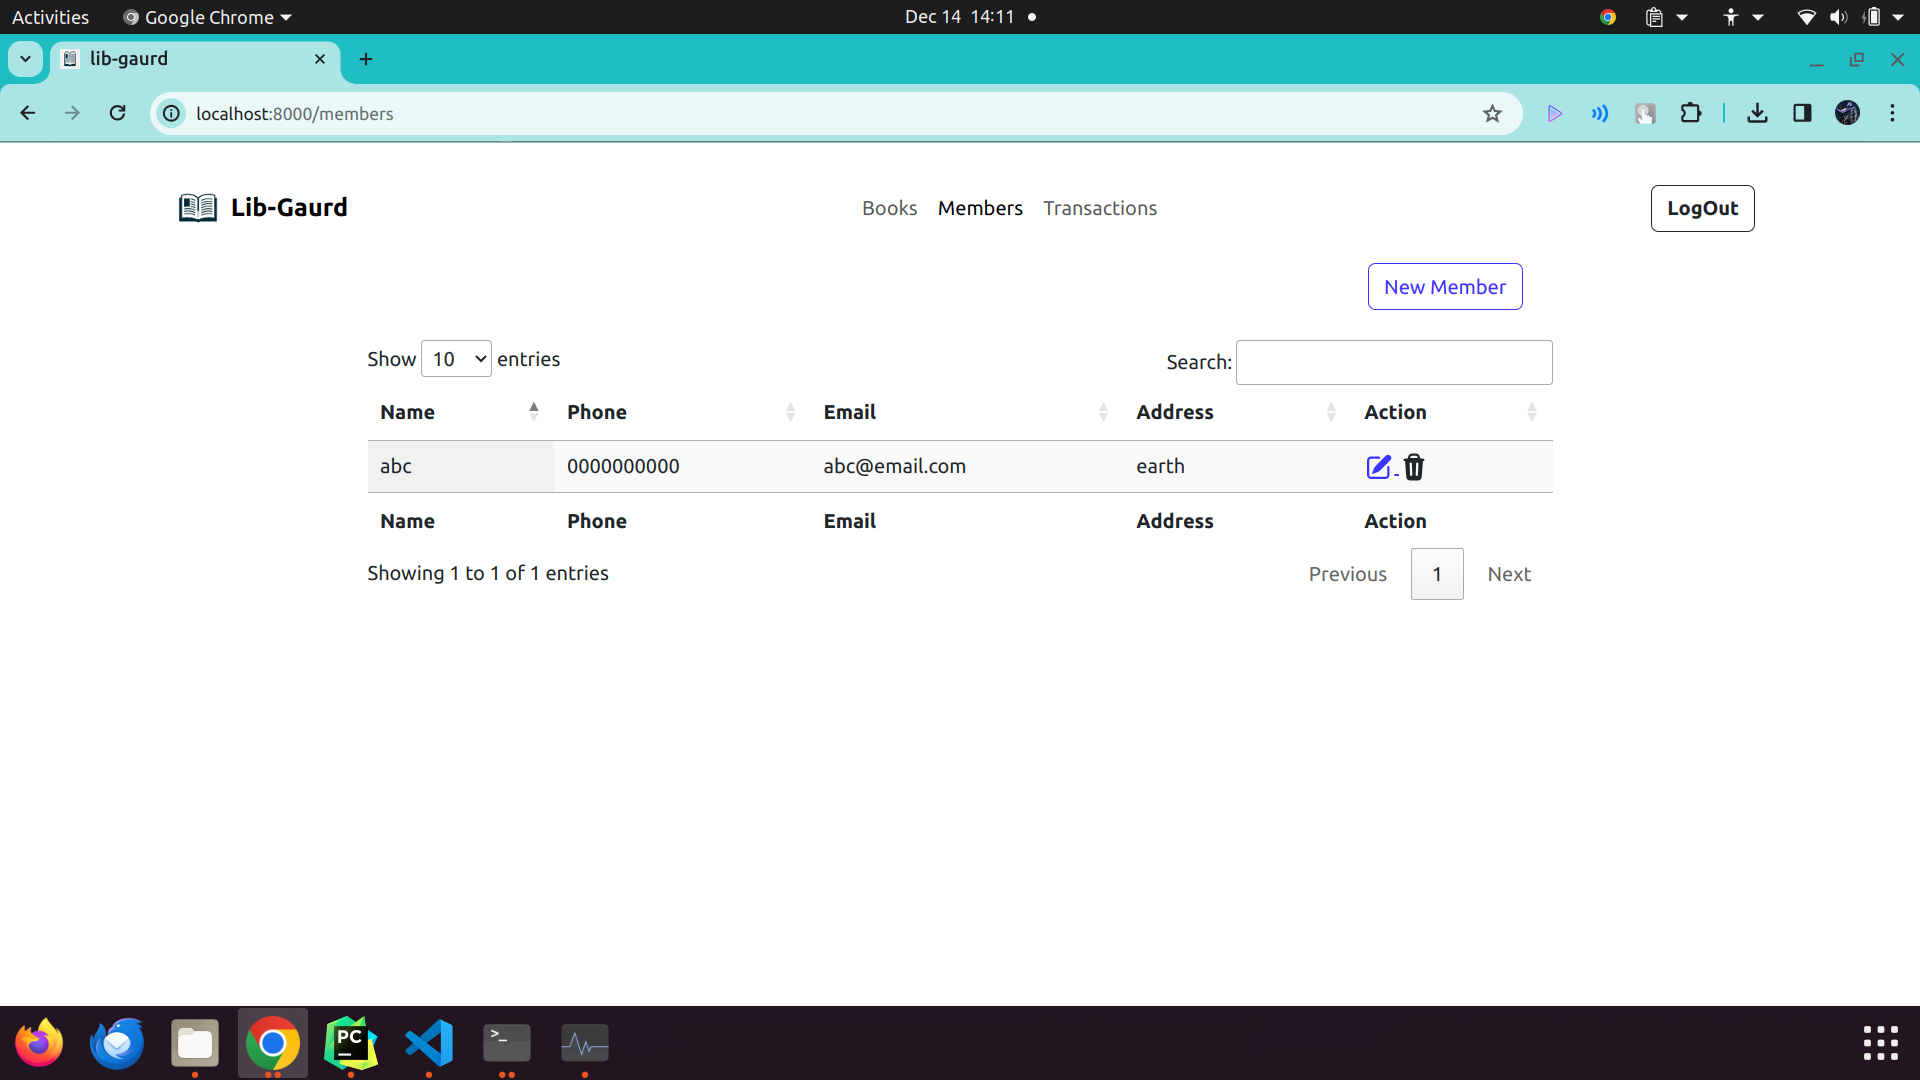
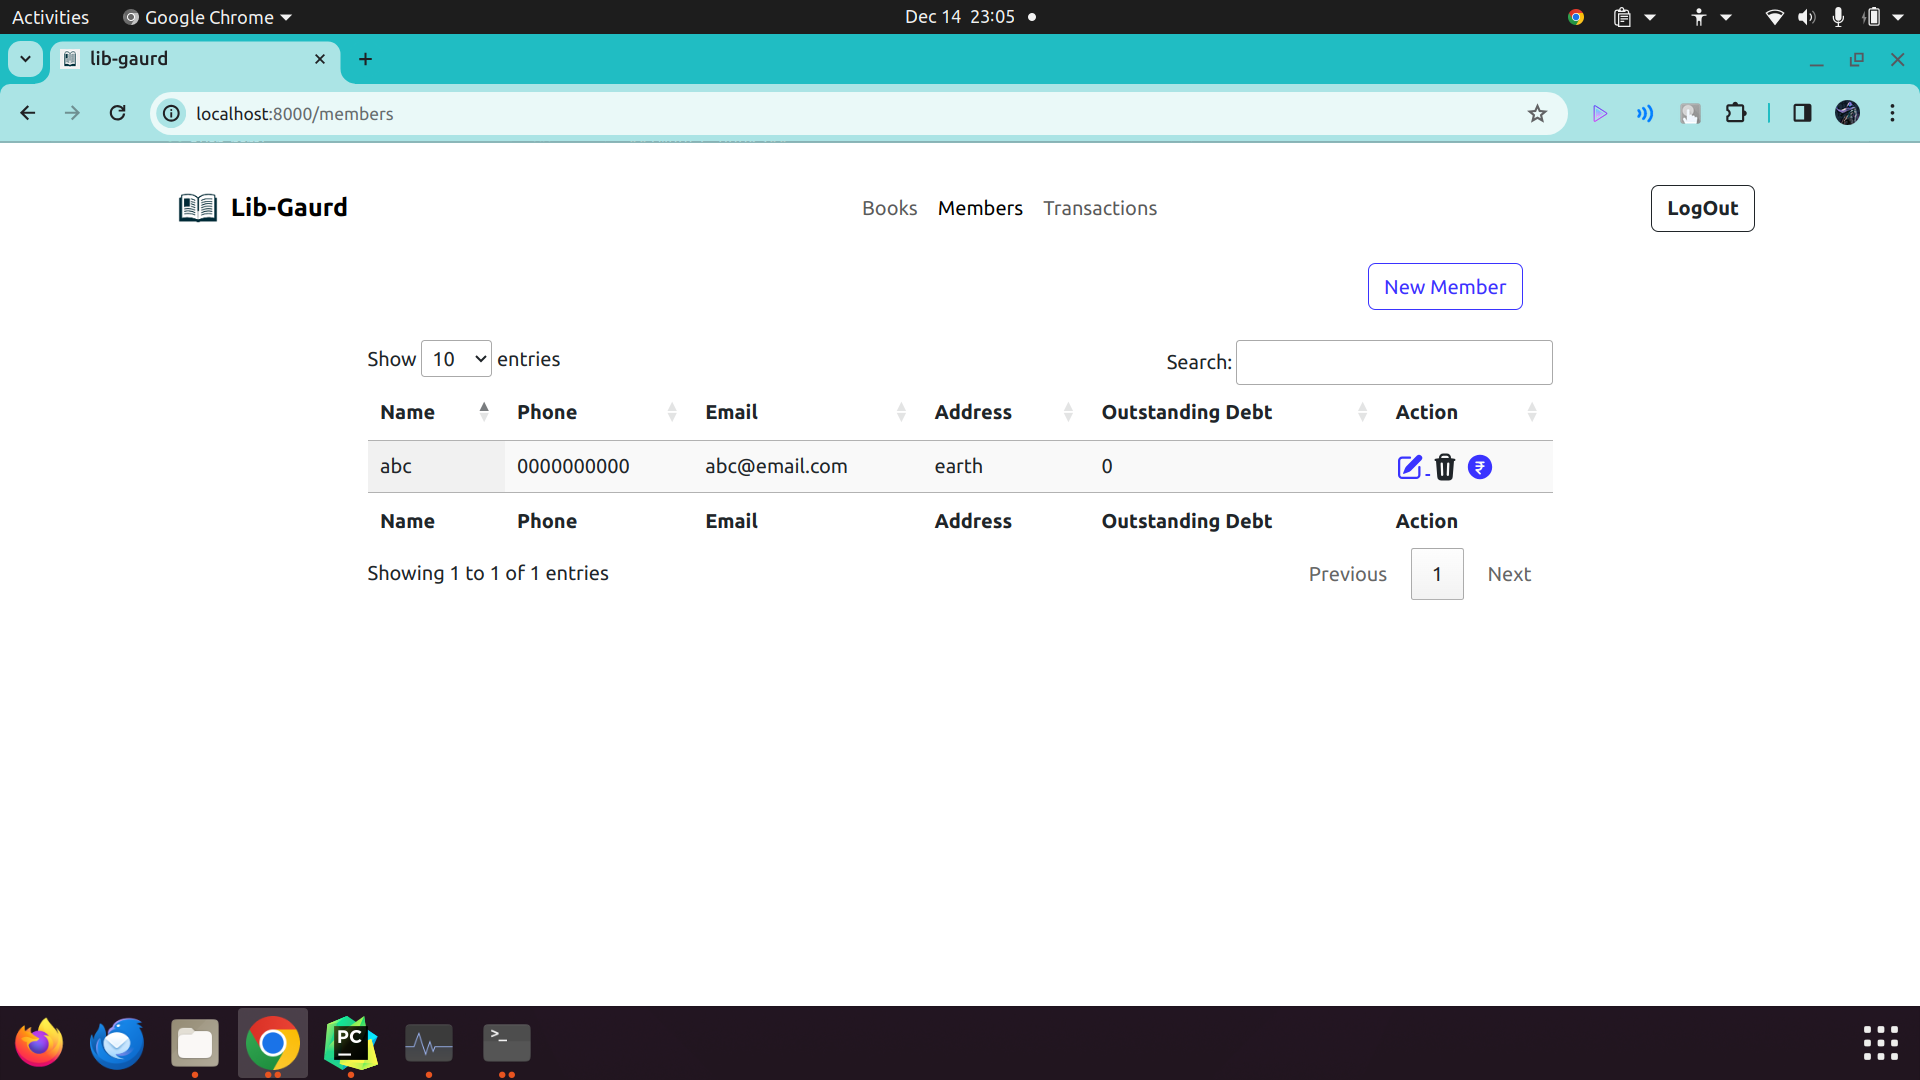
added member debt limit

diff --git a/src/templates/members/show.html b/src/templates/members/show.html
@@ -13,6 +13,7 @@
             <th>Phone</th>
             <th>Email</th>
             <th>Address</th>
+            <th>Outstanding Debt</th>
             <th>Action</th>
         </tr>
     </thead>
@@ -22,6 +23,7 @@
           <th>Phone</th>
           <th>Email</th>
           <th>Address</th>
+          <th>Outstanding Debt</th>
           <th>Action</th>
       </tr>
     </tfoot>
@@ -41,6 +43,13 @@
       <path fill-rule="evenodd" d="M8.75 1A2.75 2.75 0 006 3.75v.443c-.795.077-1.584.176-2.365.298a.75.75 0 10.23 1.482l.149-.022.841 10.518A2.75 2.75 0 007.596 19h4.807a2.75 2.75 0 002.742-2.53l.841-10.52.149.023a.75.75 0 00.23-1.482A41.03 41.03 0 0014 4.193V3.75A2.75 2.75 0 0011.25 1h-2.5zM10 4c.84 0 1.673.025 2.5.075V3.75c0-.69-.56-1.25-1.25-1.25h-2.5c-.69 0-1.25.56-1.25 1.25v.325C8.327 4.025 9.16 4 10 4zM8.58 7.72a.75.75 0 00-1.5.06l.3 7.5a.75.75 0 101.5-.06l-.3-7.5zm4.34.06a.75.75 0 10-1.5-.06l-.3 7.5a.75.75 0 101.5.06l.3-7.5z" clip-rule="evenodd" />
     </svg>    
   </span> -->
+
+{#  <span id="reset-debt-member-${data}" style="cursor: pointer!important;">#}
+{#    <svg xmlns="http://www.w3.org/2000/svg" style="height: 1.5em;" viewBox="0 0 24 24" fill="currentColor" class="w-5 h-5">#}
+{#      <path fill-rule="evenodd" d="M12 2.25c-5.385 0-9.75 4.365-9.75 9.75s4.365 9.75 9.75 9.75 9.75-4.365 9.75-9.75S17.385 2.25 12 2.25zM9 7.5A.75.75 0 009 9h1.5c.98 0 1.813.626 2.122 1.5H9A.75.75 0 009 12h3.622a2.251 2.251 0 01-2.122 1.5H9a.75.75 0 00-.53 1.28l3 3a.75.75 0 101.06-1.06L10.8 14.988A3.752 3.752 0 0014.175 12H15a.75.75 0 000-1.5h-.825A3.733 3.733 0 0013.5 9H15a.75.75 0 000-1.5H9z" clip-rule="evenodd" />#}
+{#    </svg>#}
+{#  </span>#}
+
       
 </div>
 
@@ -80,6 +89,7 @@
             { data: 'phone' },
             { data: 'email' },
             { data: 'address' },
+            { data: 'debt' },
             { data: 'id',
               render: function(data, type, full) {
                 return type === "display" ? `
@@ -94,7 +104,13 @@
                     <svg xmlns="http://www.w3.org/2000/svg" style="height: 1.5em;" viewBox="0 0 20 20" fill="currentColor" class="w-5 h-5">
                       <path fill-rule="evenodd" d="M8.75 1A2.75 2.75 0 006 3.75v.443c-.795.077-1.584.176-2.365.298a.75.75 0 10.23 1.482l.149-.022.841 10.518A2.75 2.75 0 007.596 19h4.807a2.75 2.75 0 002.742-2.53l.841-10.52.149.023a.75.75 0 00.23-1.482A41.03 41.03 0 0014 4.193V3.75A2.75 2.75 0 0011.25 1h-2.5zM10 4c.84 0 1.673.025 2.5.075V3.75c0-.69-.56-1.25-1.25-1.25h-2.5c-.69 0-1.25.56-1.25 1.25v.325C8.327 4.025 9.16 4 10 4zM8.58 7.72a.75.75 0 00-1.5.06l.3 7.5a.75.75 0 101.5-.06l-.3-7.5zm4.34.06a.75.75 0 10-1.5-.06l-.3 7.5a.75.75 0 101.5.06l.3-7.5z" clip-rule="evenodd" />
                     </svg>    
-                  </span>` : data;
+                  </span>
+
+                  <a href="/members/repay/${data}">
+                    <svg xmlns="http://www.w3.org/2000/svg" style="height: 1.5em;" viewBox="0 0 24 24" fill="currentColor" class="w-5 h-5">
+                      <path fill-rule="evenodd" d="M12 2.25c-5.385 0-9.75 4.365-9.75 9.75s4.365 9.75 9.75 9.75 9.75-4.365 9.75-9.75S17.385 2.25 12 2.25zM9 7.5A.75.75 0 009 9h1.5c.98 0 1.813.626 2.122 1.5H9A.75.75 0 009 12h3.622a2.251 2.251 0 01-2.122 1.5H9a.75.75 0 00-.53 1.28l3 3a.75.75 0 101.06-1.06L10.8 14.988A3.752 3.752 0 0014.175 12H15a.75.75 0 000-1.5h-.825A3.733 3.733 0 0013.5 9H15a.75.75 0 000-1.5H9z" clip-rule="evenodd" />
+                    </svg>
+                  </a>` : data;
               }
             }
         ]

diff --git a/src/templates/base.html b/src/templates/base.html
@@ -15,10 +15,10 @@
     {# alert for flashed messages #}
     {% with messages = get_flashed_messages(with_categories=true) %}
       {% if messages %}
-      <div class="mt-2 mb-4">
+      <div class="mt-2 mb-4 container w-50">
         {% for category, message in messages %}
-        <div class="alert alert-{{ category }} alert-dismissible fade show" role="alert">
-          {{ message }}
+        <div class="alert alert-{{ category }} alert-dismissible fade show text-center" role="alert">
+          <strong>{{ message }}</strong>
           <button type="button" class="btn-close" data-bs-dismiss="alert" aria-label="Close"></button>
         </div>
         {% endfor %}

diff --git a/src/templates/transactions/show.html b/src/templates/transactions/show.html
@@ -38,7 +38,7 @@
           { data: 'book_id' },
           { data: 'member_name' },
           { data: 'count' },
-          { data: 'charges_paid',
+          { data: 'charges_due',
             render: function (data, type) {
               const val = data.toFixed(2);
               return type === "display" ? `Rs ${val}` : val;

diff --git a/src/models.py b/src/models.py
@@ -79,14 +79,16 @@ class Member(db.Model):
     address = db.Column(db.String(200), nullable=False)
     phone = db.Column(db.String(20), nullable=False)
     email = db.Column(db.String(100), nullable=False, unique=True)
+    debt = db.Column(db.Float, nullable=True, default=0)
     transactions = db.relationship("Transaction", backref="member", cascade="all, delete")
 
-    def __init__(self, id, name, address, phone, email):
+    def __init__(self, id, name, address, phone, email, debt=0):
         self.id = id
         self.name = name
         self.address = address
         self.phone = phone
         self.email = email
+        self.debt = debt
 
     def __repr__(self):
         return f"<Member {self.id}>"
@@ -98,6 +100,7 @@ class Member(db.Model):
             "address": self.address,
             "phone": self.phone,
             "email": self.email,
+            "debt": self.debt,
         }
 
 
@@ -109,10 +112,10 @@ class Transaction(db.Model):
     issue_date = db.Column(db.Date, nullable=False)
     is_returned = db.Column(db.Boolean, nullable=False, default=False)
     return_date = db.Column(db.Date, nullable=True)
-    charges_paid = db.Column(db.Float, nullable=True, default=0)
+    charges_due = db.Column(db.Float, nullable=True, default=0)
     issued_by = db.Column(db.String(60), nullable=False)
 
-    def __init__(self, id, member_id, book_id, count, issue_date, return_date, issued_by, charges_paid=0, is_returned=False):
+    def __init__(self, id, member_id, book_id, count, issue_date, return_date, issued_by, charges_due=0, is_returned=False):
         self.id = id
         self.member_id = member_id
         self.book_id = book_id
@@ -120,7 +123,7 @@ class Transaction(db.Model):
         self.issue_date = issue_date
         self.return_date = return_date
         self.is_returned = is_returned
-        self.charges_paid = charges_paid
+        self.charges_due = charges_due
         self.issued_by = issued_by
 
     def __repr__(self):
@@ -136,13 +139,13 @@ class Transaction(db.Model):
             "issue_date": self.issue_date,
             "return_date": self.return_date,
             "is_returned": self.is_returned,
-            "charges_paid": self.charges_paid,
+            "charges_due": self.charges_due,
             "issued_by": self.issued_by,
         }
 
     def calculate_charges(self):
         if self.is_returned:
-            return self.charges_paid
+            return self.charges_due
 
         # Calculate no of days from issue date to current date
         days = (datetime.now().date() - self.issue_date).days
@@ -153,26 +156,31 @@ class Transaction(db.Model):
 
         return charges
 
-    def issue_book(self) -> bool:
+    def issue_book(self) -> str:
         try:
+            member = Member.query.get(self.member_id)
+            if member.debt >= app.config["MEMBER_DEBT_LIMIT"]:
+                return "DEBT_EXCEED"
             book = Book.query.get(self.book_id)
             if book.available_copies >= int(self.count):
                 book.available_copies -= int(self.count)
                 db.session.commit()
-                return True
-            return False
+                return "ALLOWED"
+            return "COUNT_EXCEED"
         except Exception as e:
             print(e)
-            return False
+            return "ERROR"
 
     def return_book(self) -> bool:
         try:
             if self.is_returned:
                 return True
             self.return_date = datetime.now().date()
-            self.charges_paid = self.calculate_charges()
+            self.charges_due = self.calculate_charges()
             book = Book.query.get(self.book_id)
             book.available_copies += int(self.count)
+            member = Member.query.get(self.member_id)
+            member.debt += self.charges_due
             self.is_returned = True
             db.session.commit()
             return True

diff --git a/src/routes/transactions.py b/src/routes/transactions.py
@@ -42,17 +42,23 @@ def issue_transaction():
       return make_response(jsonify({"message": "Missing Fields"}), 500)
     transaction = Transaction(id=None, member_id=member_id, book_id=book_id, count=count, issue_date=issue_date, return_date=None, issued_by=user.name)
 
-    if Transaction.issue_book(transaction):
+    transaction_state = Transaction.issue_book(transaction)
+    print(transaction_state)
+    if transaction_state == "ALLOWED":
       db.session.add(transaction)
       db.session.commit()
       flash("Book Issued", "success")
-    else:
+    elif transaction_state == "COUNT_EXCEED":
       flash("Number of copies of book to be issued exceeds available count", "warning")
+    elif transaction_state == "DEBT_EXCEED":
+      flash("Member has exceeded his debt limit", "warning")
+    else:
+      flash("Transaction broke. Internal Server Error.", "danger")
   except IntegrityError:
     flash("Transaction already exists", "warning")
   except Exception as e:
     print(e)
-    return make_response(jsonify({"message": "Internal srver error"}), 500)
+    return make_response(jsonify({"message": "Internal server error"}), 500)
   finally:
     return redirect("/transactions")
 
@@ -65,6 +71,7 @@ def return_transaction(id):
       flash("Book succesfully returned", "success")
       return redirect("/transactions")
     else:
+      flash("Transaction broke. Internal Server Error.", "danger")
       return make_response(jsonify({"message": "book return failed"}))
 
   except Exception as e:

diff --git a/src/app.py b/src/app.py
@@ -9,9 +9,10 @@ load_dotenv()
 app = Flask(__name__)
 app.config["SQLALCHEMY_DATABASE_URI"]=os.getenv("DB_URI")
 app.config["UPLOAD_FOLDER"] = os.path.join(app.root_path, "static/media")
-app.config["BOOK_RETURN_DEADLINE"] = 10
+app.config["BOOK_RETURN_DEADLINE"] = 10.0
 app.config["RENT_PER_DAY"] = 0.1
-app.config["FINE_PER_DAY"] = 1
+app.config["FINE_PER_DAY"] = 1.0
+app.config["MEMBER_DEBT_LIMIT"] = 500.0
 
 # app secret key
 app.secret_key = os.getenv("FLASK_SECRET_KEY")

diff --git a/src/routes/members.py b/src/routes/members.py
@@ -68,6 +68,18 @@ def get_member(id):
   except Exception as e:
     print(e)
     return make_response(jsonify({"message": "Internal server error"}), 500)
-
   pass
+
+@app.get("/members/repay/<int:id>")
+@auth_required
+def repay_debt(id):
+  try:
+    member = Member.query.get(id)
+    member.debt = 0
+    db.session.commit()
+    flash("Member repaid debt", "success")
+  except Exception as e:
+    print(e)
+  finally:
+    return redirect("/members")
 

diff --git a/README.md b/README.md
@@ -13,7 +13,7 @@
 - Issue / Return books
 
 ### Live Demo
-Check out the live demo here - 
+Check out the live website: https://libgaurd.camartya.xyz
 
 *Test Credentials*
  - *Username*: `test`
